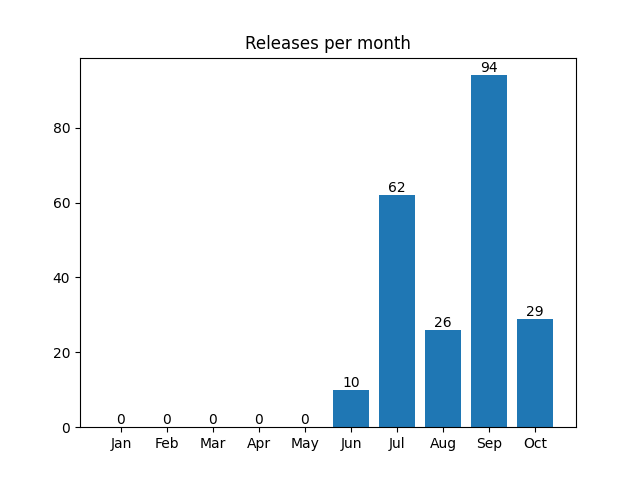
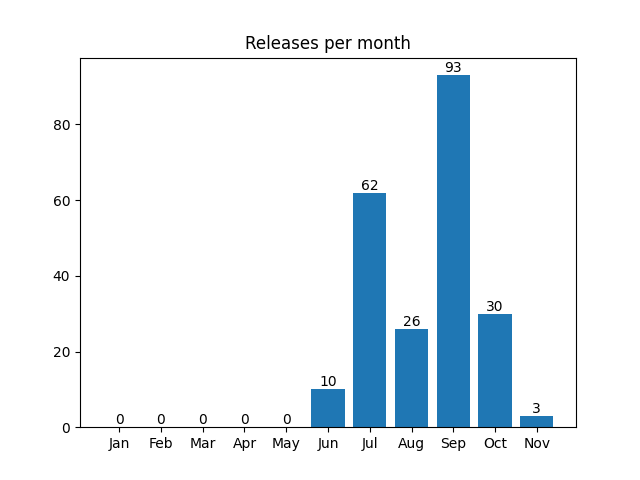
Apply automatic changes

diff --git a/docs/analytics.html b/docs/analytics.html
@@ -77,7 +77,7 @@
 						</tr>
 						<tr>
 							<td>Aug</td>
-							<td>22</td>
+							<td>21</td>
 							<td>32</td>
 						</tr>
 						<tr>
@@ -87,8 +87,13 @@
 						</tr>
 						<tr>
 							<td>Oct</td>
-							<td>24</td>
+							<td>19</td>
 							<td>12</td>
+						</tr>
+						<tr>
+							<td>Nov</td>
+							<td>1</td>
+							<td>7</td>
 						</tr>
 					</table>
 				</div>
@@ -197,31 +202,31 @@
 				<tr>
 					<td>4</td>
 					<td>
-						<a href="http://github.com/notofonts/caucasian-albanian">caucasian-albanian</a>,  						<a href="http://github.com/notofonts/dogra">dogra</a>,  						<a href="http://github.com/notofonts/grantha">grantha</a>,  						<a href="http://github.com/notofonts/khudawadi">khudawadi</a>,  						<a href="http://github.com/notofonts/manichaean">manichaean</a>,  						<a href="http://github.com/notofonts/oriya">oriya</a>,  						<a href="http://github.com/notofonts/sundanese">sundanese</a>,  						<a href="http://github.com/notofonts/tai-tham">tai-tham</a> 
+						<a href="http://github.com/notofonts/caucasian-albanian">caucasian-albanian</a>,  						<a href="http://github.com/notofonts/dogra">dogra</a>,  						<a href="http://github.com/notofonts/grantha">grantha</a>,  						<a href="http://github.com/notofonts/khudawadi">khudawadi</a>,  						<a href="http://github.com/notofonts/manichaean">manichaean</a>,  						<a href="http://github.com/notofonts/oriya">oriya</a>,  						<a href="http://github.com/notofonts/sundanese">sundanese</a>,  						<a href="http://github.com/notofonts/tai-tham">tai-tham</a>,  						<a href="http://github.com/notofonts/telugu">telugu</a> 
 					</td>
 				</tr>
 				<tr>
 					<td>5</td>
 					<td>
-						<a href="http://github.com/notofonts/armenian">armenian</a>,  						<a href="http://github.com/notofonts/bhaiksuki">bhaiksuki</a>,  						<a href="http://github.com/notofonts/canadian-aboriginal">canadian-aboriginal</a>,  						<a href="http://github.com/notofonts/egyptian-hieroglyphs">egyptian-hieroglyphs</a>,  						<a href="http://github.com/notofonts/javanese">javanese</a>,  						<a href="http://github.com/notofonts/khojki">khojki</a>,  						<a href="http://github.com/notofonts/modi">modi</a>,  						<a href="http://github.com/notofonts/mongolian">mongolian</a>,  						<a href="http://github.com/notofonts/nandinagari">nandinagari</a>,  						<a href="http://github.com/notofonts/telugu">telugu</a> 
+						<a href="http://github.com/notofonts/armenian">armenian</a>,  						<a href="http://github.com/notofonts/bhaiksuki">bhaiksuki</a>,  						<a href="http://github.com/notofonts/canadian-aboriginal">canadian-aboriginal</a>,  						<a href="http://github.com/notofonts/egyptian-hieroglyphs">egyptian-hieroglyphs</a>,  						<a href="http://github.com/notofonts/javanese">javanese</a>,  						<a href="http://github.com/notofonts/modi">modi</a>,  						<a href="http://github.com/notofonts/mongolian">mongolian</a>,  						<a href="http://github.com/notofonts/nandinagari">nandinagari</a> 
 					</td>
 				</tr>
 				<tr>
 					<td>6</td>
 					<td>
-						<a href="http://github.com/notofonts/adlam">adlam</a>,  						<a href="http://github.com/notofonts/brahmi">brahmi</a>,  						<a href="http://github.com/notofonts/kaithi">kaithi</a>,  						<a href="http://github.com/notofonts/sign-writing">sign-writing</a> 
+						<a href="http://github.com/notofonts/adlam">adlam</a>,  						<a href="http://github.com/notofonts/brahmi">brahmi</a>,  						<a href="http://github.com/notofonts/ethiopic">ethiopic</a>,  						<a href="http://github.com/notofonts/kaithi">kaithi</a>,  						<a href="http://github.com/notofonts/khojki">khojki</a>,  						<a href="http://github.com/notofonts/malayalam">malayalam</a>,  						<a href="http://github.com/notofonts/sign-writing">sign-writing</a> 
 					</td>
 				</tr>
 				<tr>
 					<td>7</td>
 					<td>
-						<a href="http://github.com/notofonts/dives-akuru">dives-akuru</a>,  						<a href="http://github.com/notofonts/ethiopic">ethiopic</a>,  						<a href="http://github.com/notofonts/malayalam">malayalam</a>,  						<a href="http://github.com/notofonts/syloti-nagri">syloti-nagri</a> 
+						<a href="http://github.com/notofonts/dives-akuru">dives-akuru</a>,  						<a href="http://github.com/notofonts/syloti-nagri">syloti-nagri</a>,  						<a href="http://github.com/notofonts/tamil">tamil</a> 
 					</td>
 				</tr>
 				<tr>
 					<td>8</td>
 					<td>
-						<a href="http://github.com/notofonts/gurmukhi">gurmukhi</a>,  						<a href="http://github.com/notofonts/khmer">khmer</a>,  						<a href="http://github.com/notofonts/music">music</a>,  						<a href="http://github.com/notofonts/tamil">tamil</a>,  						<a href="http://github.com/notofonts/tifinagh">tifinagh</a> 
+						<a href="http://github.com/notofonts/gurmukhi">gurmukhi</a>,  						<a href="http://github.com/notofonts/khmer">khmer</a>,  						<a href="http://github.com/notofonts/music">music</a>,  						<a href="http://github.com/notofonts/tifinagh">tifinagh</a> 
 					</td>
 				</tr>
 				<tr>
@@ -233,7 +238,7 @@
 				<tr>
 					<td>10</td>
 					<td>
-						<a href="http://github.com/notofonts/hebrew">hebrew</a>,  						<a href="http://github.com/notofonts/siddham">siddham</a>,  						<a href="http://github.com/notofonts/tirhuta">tirhuta</a> 
+						<a href="http://github.com/notofonts/hebrew">hebrew</a>,  						<a href="http://github.com/notofonts/siddham">siddham</a>,  						<a href="http://github.com/notofonts/thai">thai</a>,  						<a href="http://github.com/notofonts/tirhuta">tirhuta</a> 
 					</td>
 				</tr>
 			</table>
@@ -438,7 +443,6 @@
 									<li><a href="https://github.com/notofonts/saurashtra/releases/tag/NotoSansSaurashtra-v2.001">NotoSansSaurashtra-v2.001</a></li>
 									<li><a href="https://github.com/notofonts/shavian/releases/tag/NotoSansShavian-v2.001">NotoSansShavian-v2.001</a></li>
 									<li><a href="https://github.com/notofonts/siddham/releases/tag/NotoSansSiddham-v2.003">NotoSansSiddham-v2.003</a></li>
-									<li><a href="https://github.com/notofonts/sign-writing/releases/tag/NotoSansSignWriting-v2.004">NotoSansSignWriting-v2.004</a></li>
 									<li><a href="https://github.com/notofonts/sora-sompeng/releases/tag/NotoSansSoraSompeng-v2.101">NotoSansSoraSompeng-v2.101</a></li>
 									<li><a href="https://github.com/notofonts/soyombo/releases/tag/NotoSansSoyombo-v2.001">NotoSansSoyombo-v2.001</a></li>
 									<li><a href="https://github.com/notofonts/sundanese/releases/tag/NotoSansSundanese-v2.002">NotoSansSundanese-v2.002</a></li>
@@ -493,6 +497,7 @@
 									<li><a href="https://github.com/notofonts/sharada/releases/tag/NotoSansSharada-v2.005">NotoSansSharada-v2.005</a></li>
 									<li><a href="https://github.com/notofonts/sharada/releases/tag/NotoSansSharada-v2.006">NotoSansSharada-v2.006</a></li>
 									<li><a href="https://github.com/notofonts/siddham/releases/tag/NotoSansSiddham-v2.004">NotoSansSiddham-v2.004</a></li>
+									<li><a href="https://github.com/notofonts/sign-writing/releases/tag/NotoSansSignWriting-v2.004">NotoSansSignWriting-v2.004</a></li>
 									<li><a href="https://github.com/notofonts/sogdian/releases/tag/NotoSansSogdian-v2.002">NotoSansSogdian-v2.002</a></li>
 									<li><a href="https://github.com/notofonts/sundanese/releases/tag/NotoSansSundanese-v2.003">NotoSansSundanese-v2.003</a></li>
 									<li><a href="https://github.com/notofonts/syloti-nagri/releases/tag/NotoSansSylotiNagri-v2.003">NotoSansSylotiNagri-v2.003</a></li>
@@ -502,6 +507,17 @@
 									<li><a href="https://github.com/notofonts/vithkuqi/releases/tag/NotoSansVithkuqi-v1.001">NotoSansVithkuqi-v1.001</a></li>
 									<li><a href="https://github.com/notofonts/vithkuqi/releases/tag/NotoSerifVithkuqi-v1.005">NotoSerifVithkuqi-v1.005</a></li>
 									<li><a href="https://github.com/notofonts/zanabazar-square/releases/tag/NotoSansZanabazarSquare-v2.005">NotoSansZanabazarSquare-v2.005</a></li>
+								</ul>
+							</td>
+						</tr>
+
+						<tr>
+							<td>Nov</td>
+							<td>
+								<ul>
+									<li><a href="https://github.com/notofonts/ethiopic/releases/tag/NotoSansEthiopic-v2.102">NotoSansEthiopic-v2.102</a></li>
+									<li><a href="https://github.com/notofonts/ethiopic/releases/tag/NotoSerifEthiopic-v2.102">NotoSerifEthiopic-v2.102</a></li>
+									<li><a href="https://github.com/notofonts/khojki/releases/tag/NotoSerifKhojki-v2.003">NotoSerifKhojki-v2.003</a></li>
 								</ul>
 							</td>
 						</tr>
